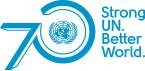
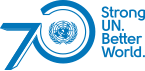
changed all top to new martin blue

diff --git a/less/style.less b/less/style.less
@@ -3,7 +3,7 @@
  * Variables
  */
 // Colors
-@brand-bar-blue: #007db4;
+@brand-bar-blue: #0075ba;
 @brand-font-color: white;
 @labels-blue: #1a74ba;
 /////////
@@ -254,11 +254,11 @@ img#iseek-logo-banner {
 }
 
 #banner-separation{
-  background-color: @banner-blue;
+  background-color: @brand-bar-blue;
   display: block;
-  width: 3px;
-  height: 80px;
-  margin-top: 20px;
+  width: 1px;
+  height: 45px;
+  margin-top: 38px;
   float: left;
 }
 
@@ -266,7 +266,7 @@ select#select-location{
   background: 0 0;
   border: 0;
   font-size: 3em;
-  color: @banner-blue;
+  color: @brand-bar-blue;
   margin-top: 1.29em;
   margin-left: 0.4em;
   -webkit-appearance: none;
@@ -287,7 +287,7 @@ div#main-navbar-collapse-1 {
 
 div#main-navbar-collapse-1 li a {
   font-size: 1.8em;
-  color: @banner-blue;
+  color: @brand-bar-blue;
 }
 
 div#main-navbar-collapse-1 i.fa {
